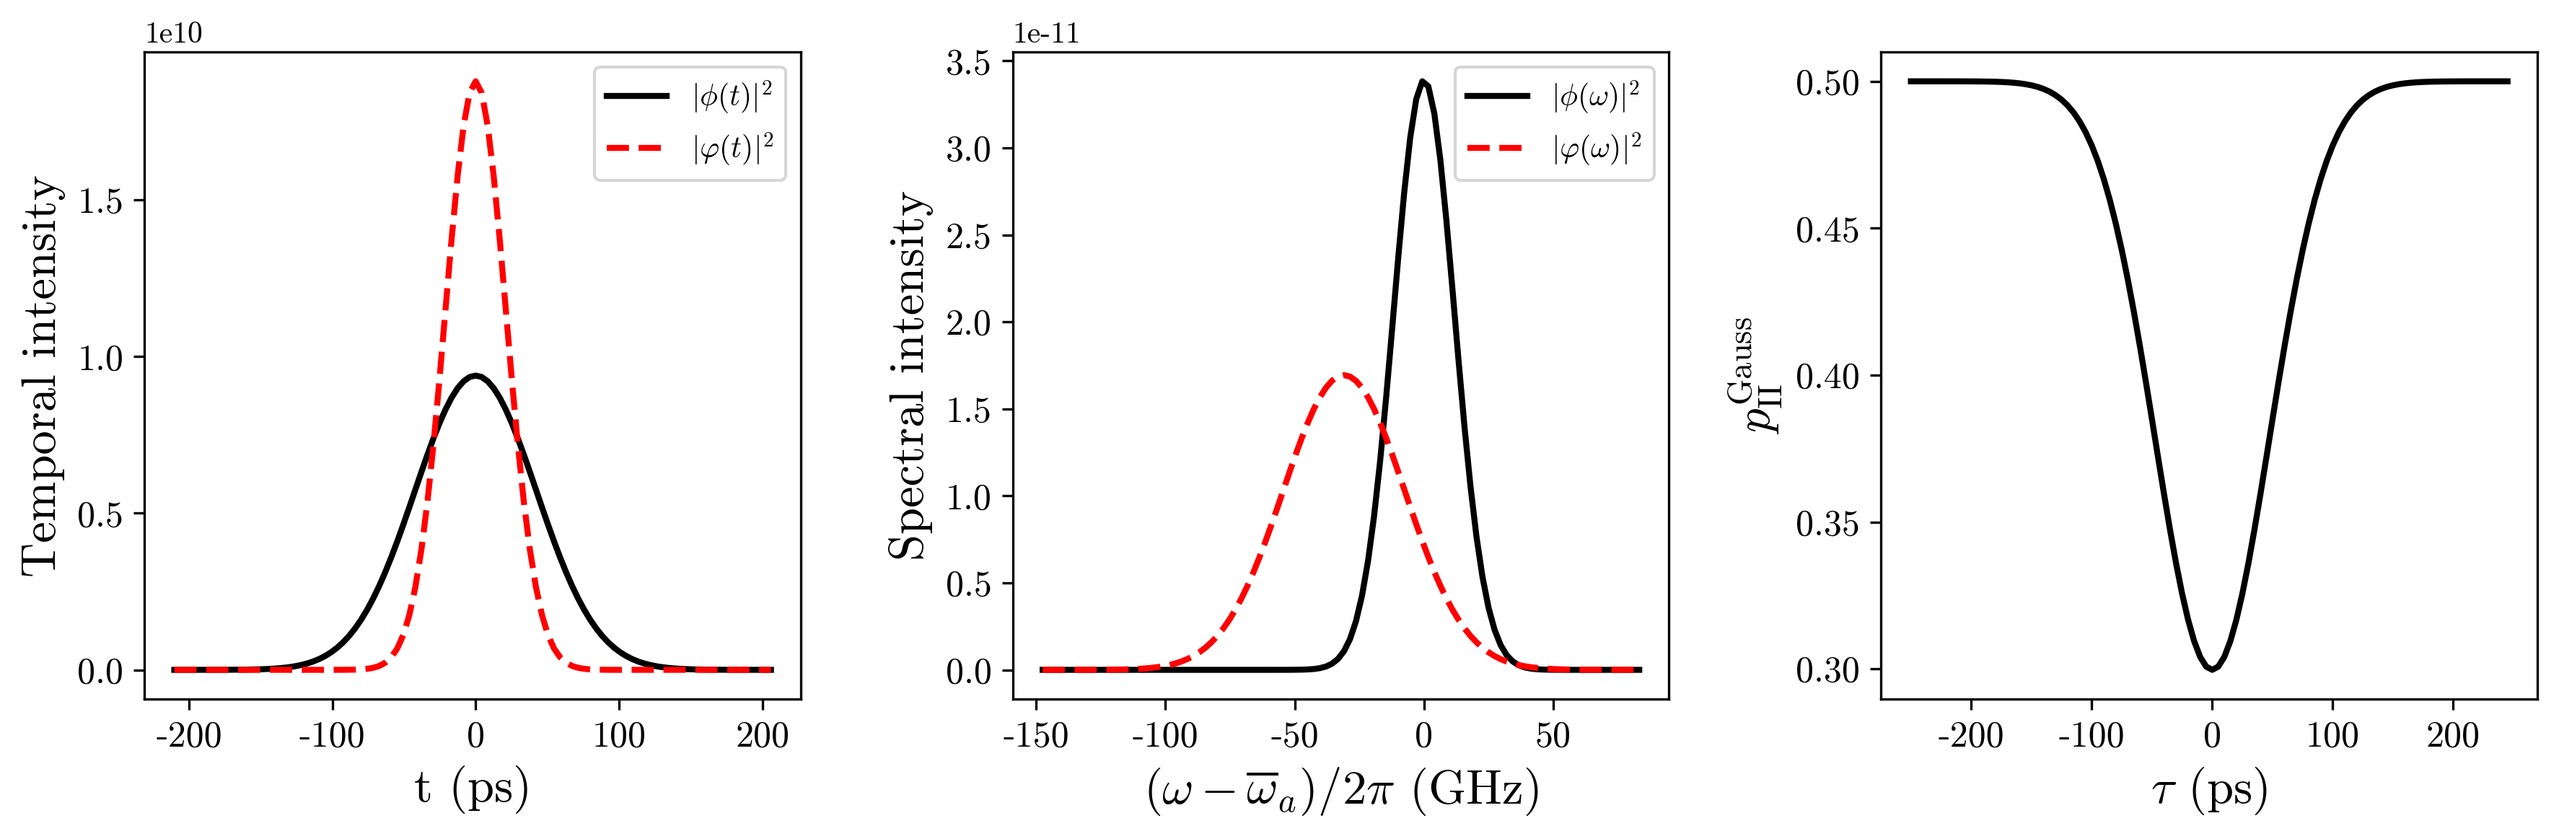
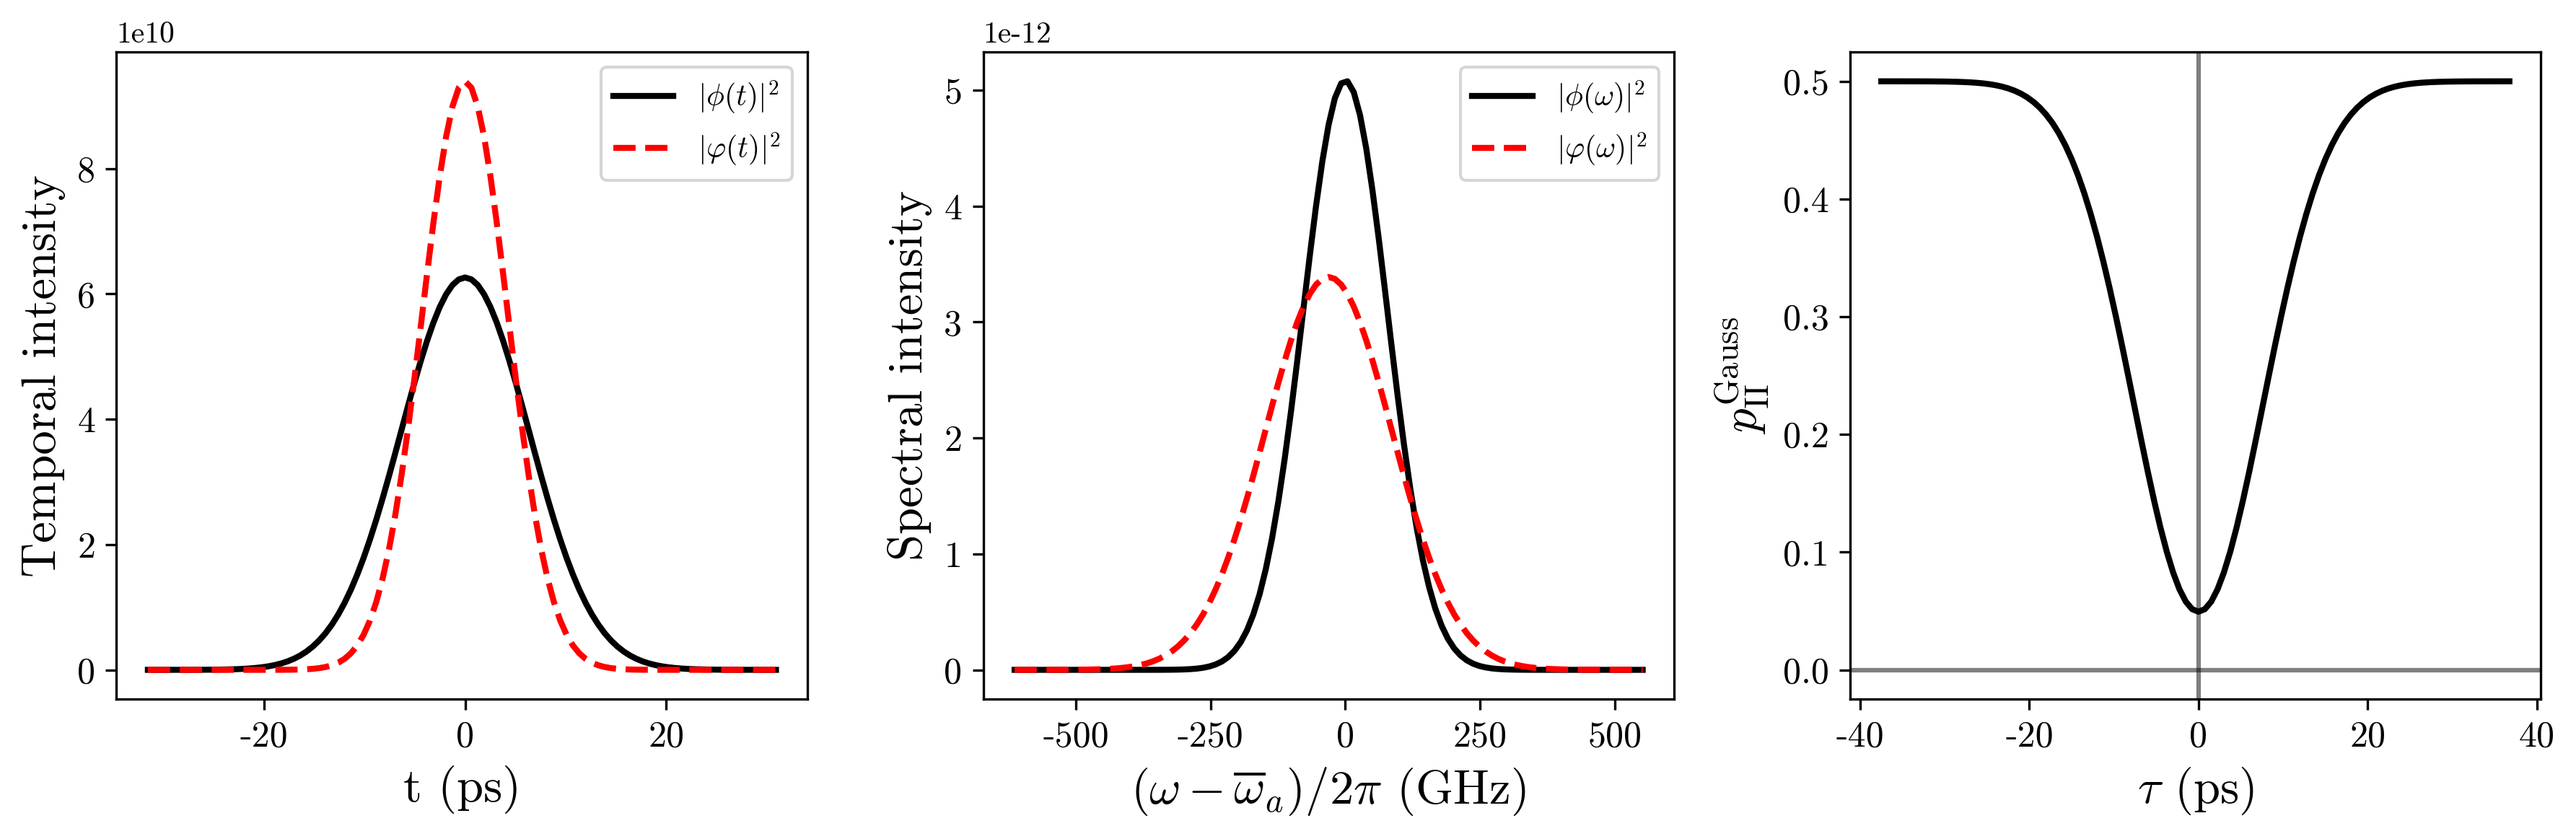
small update to plots

diff --git a/main.py b/main.py
@@ -141,6 +141,8 @@ class IndependentGaussianCoincidence:
         ax[2].set_xlabel(r"$\tau$ (ps)", fontsize=fs)
         ax[2].set_ylabel(r"$p_\mathrm{II}^\mathrm{Gauss}$", fontsize=fs)
         ax[2].tick_params(axis='both', labelsize=ts)
+        ax[2].axhline(0, color='black', alpha=0.5)
+        ax[2].axvline(0, color='black', alpha=0.5)
 
         plt.tight_layout()
         fig.savefig('figures/Fig1.png', dpi=300, bbox_inches='tight')
